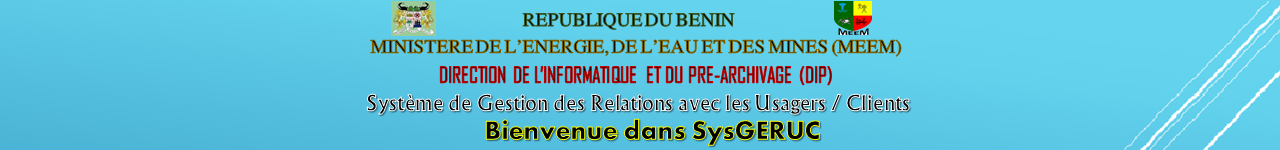
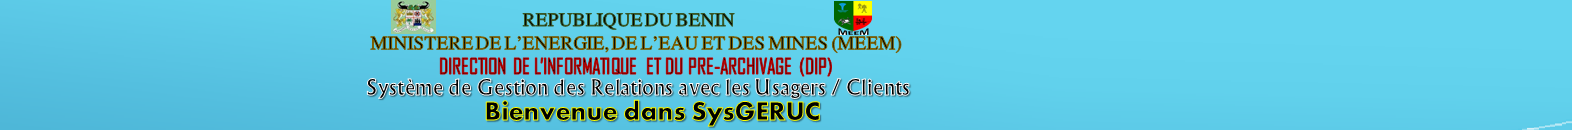
Updated production config

Changed region(s): [[0.2188, 0.4308, 0.7188, 0.9846], [0.2188, 0.0, 0.7188, 0.4], [0.875, 0.0308, 1.0, 1.0]]

diff --git a/web/plateforme/css/stylesheet.css b/web/plateforme/css/stylesheet.css
@@ -67,7 +67,7 @@ ul {
 ********************************/
 .navbar {
   background: transparent url(../img/IMAGE.png) top left repeat;
-  height: 150px;
+  height: 130px;
 }
 
 .navbar-fixed-top {
